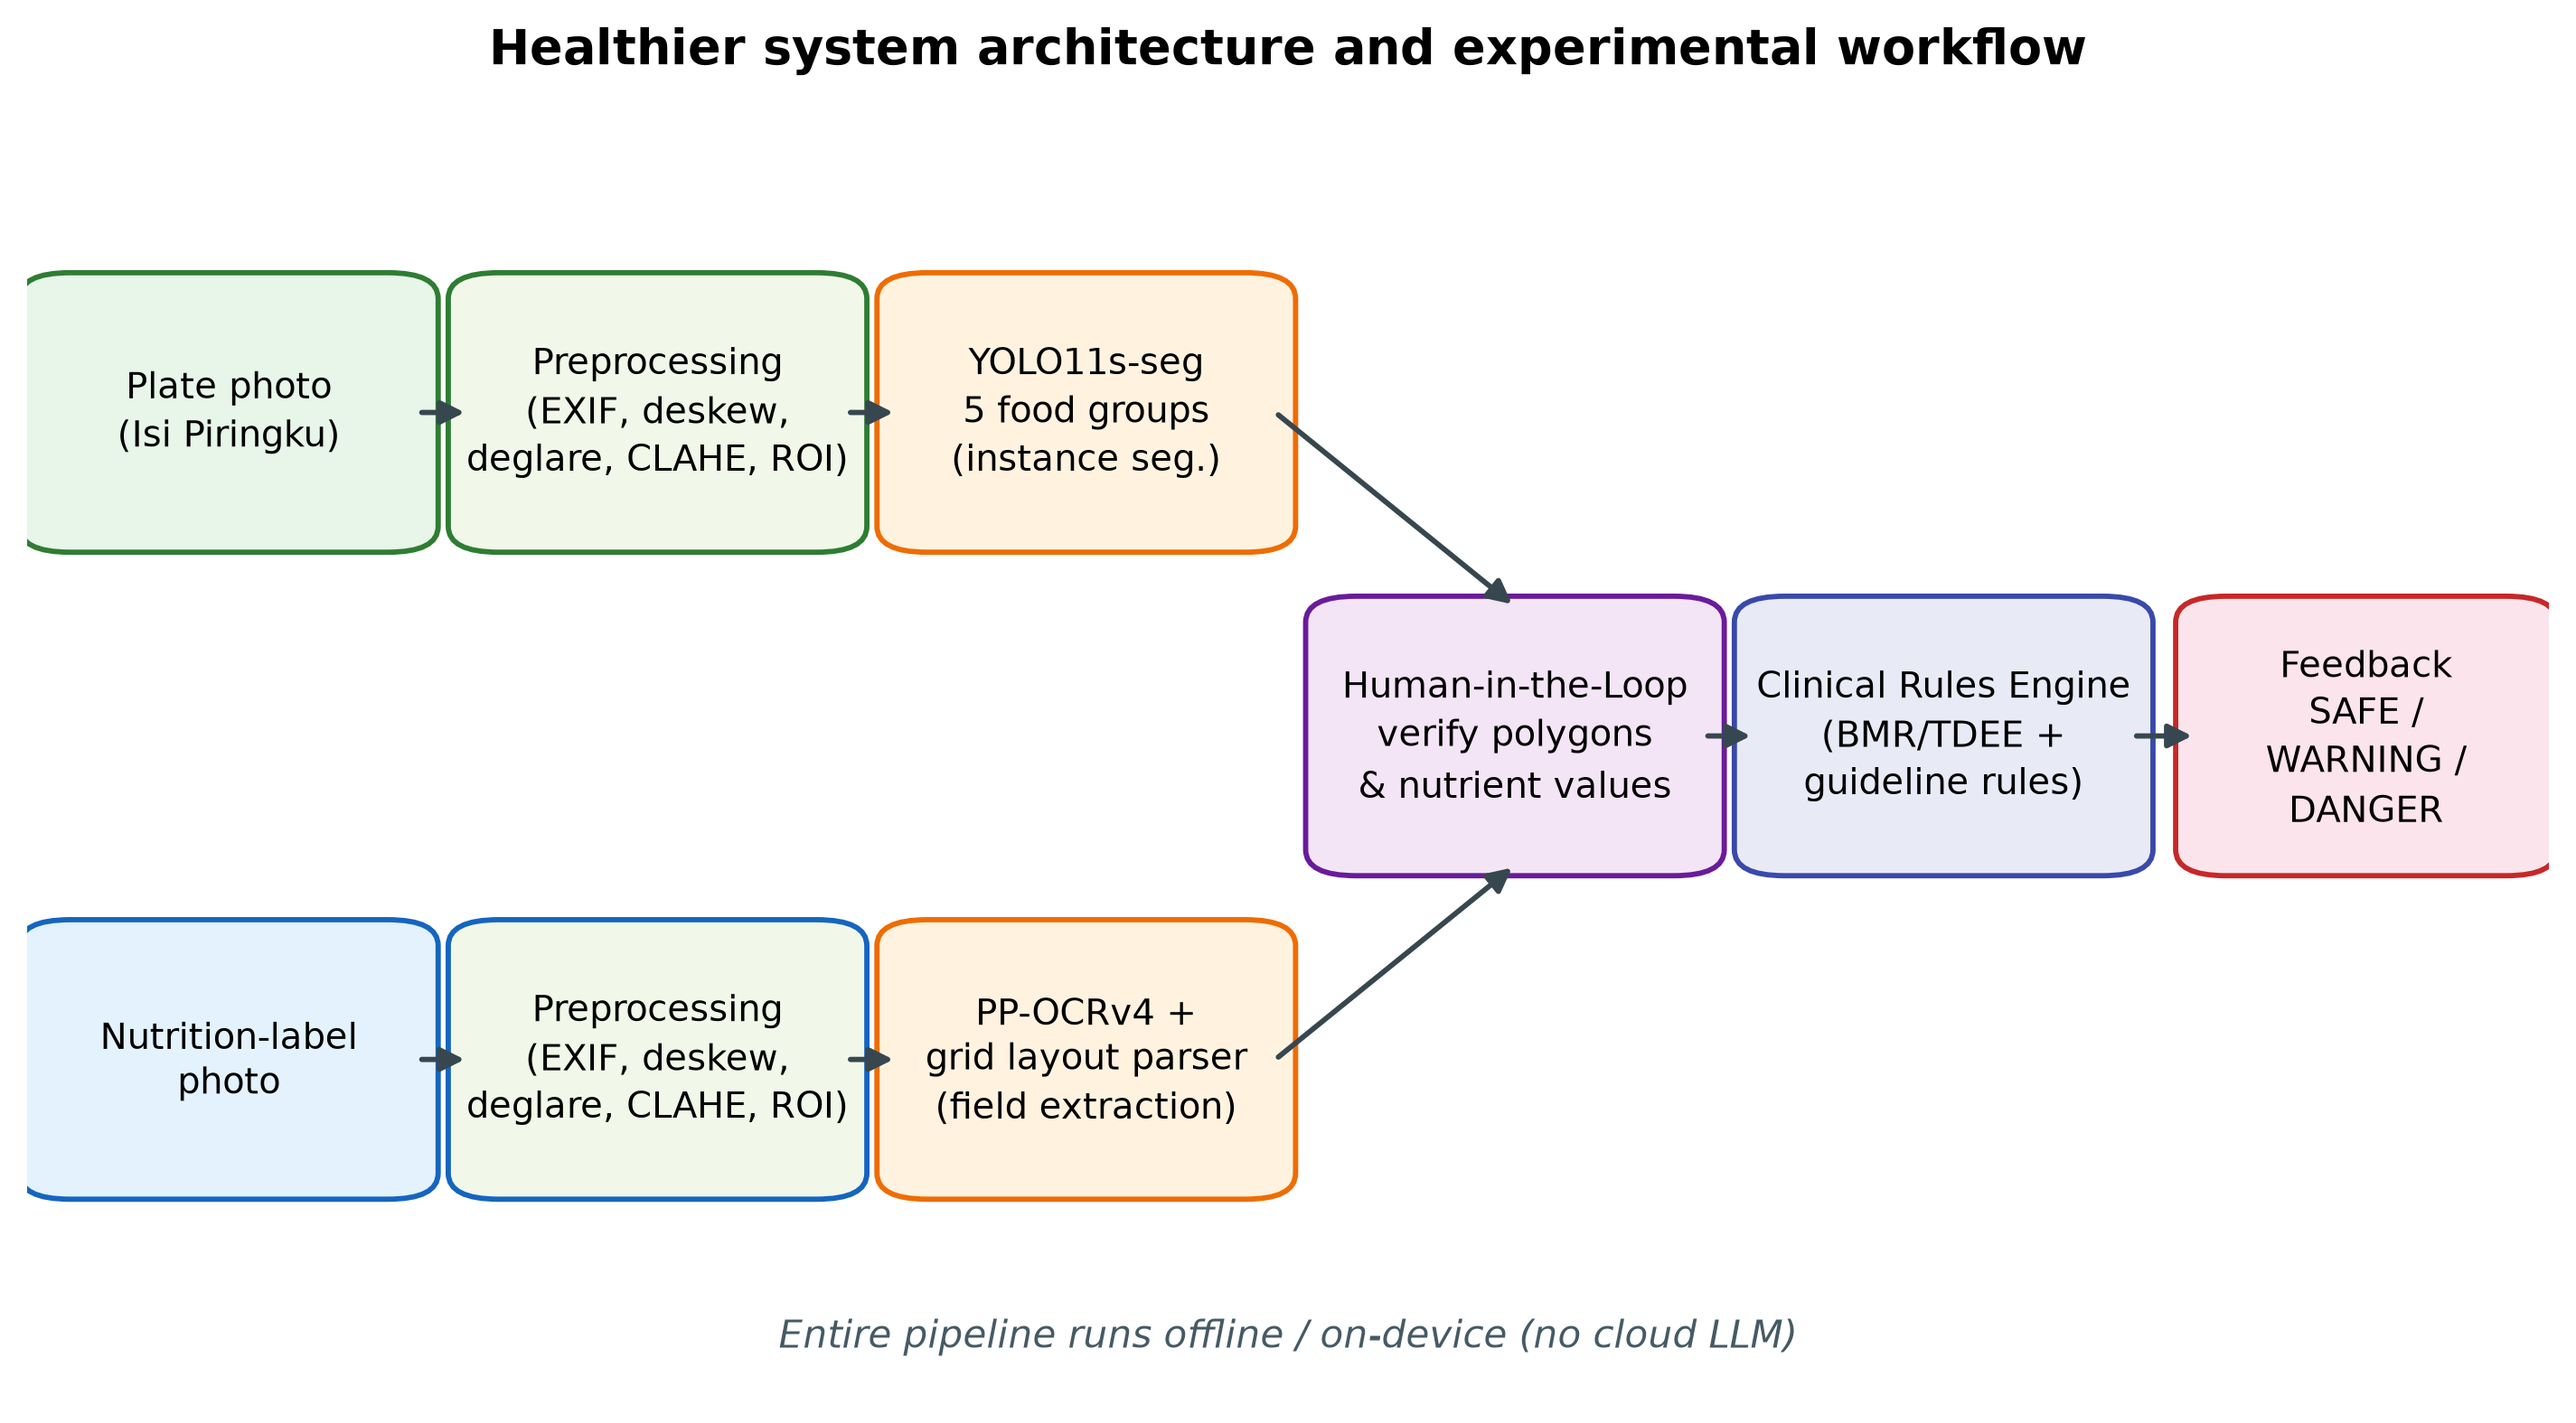
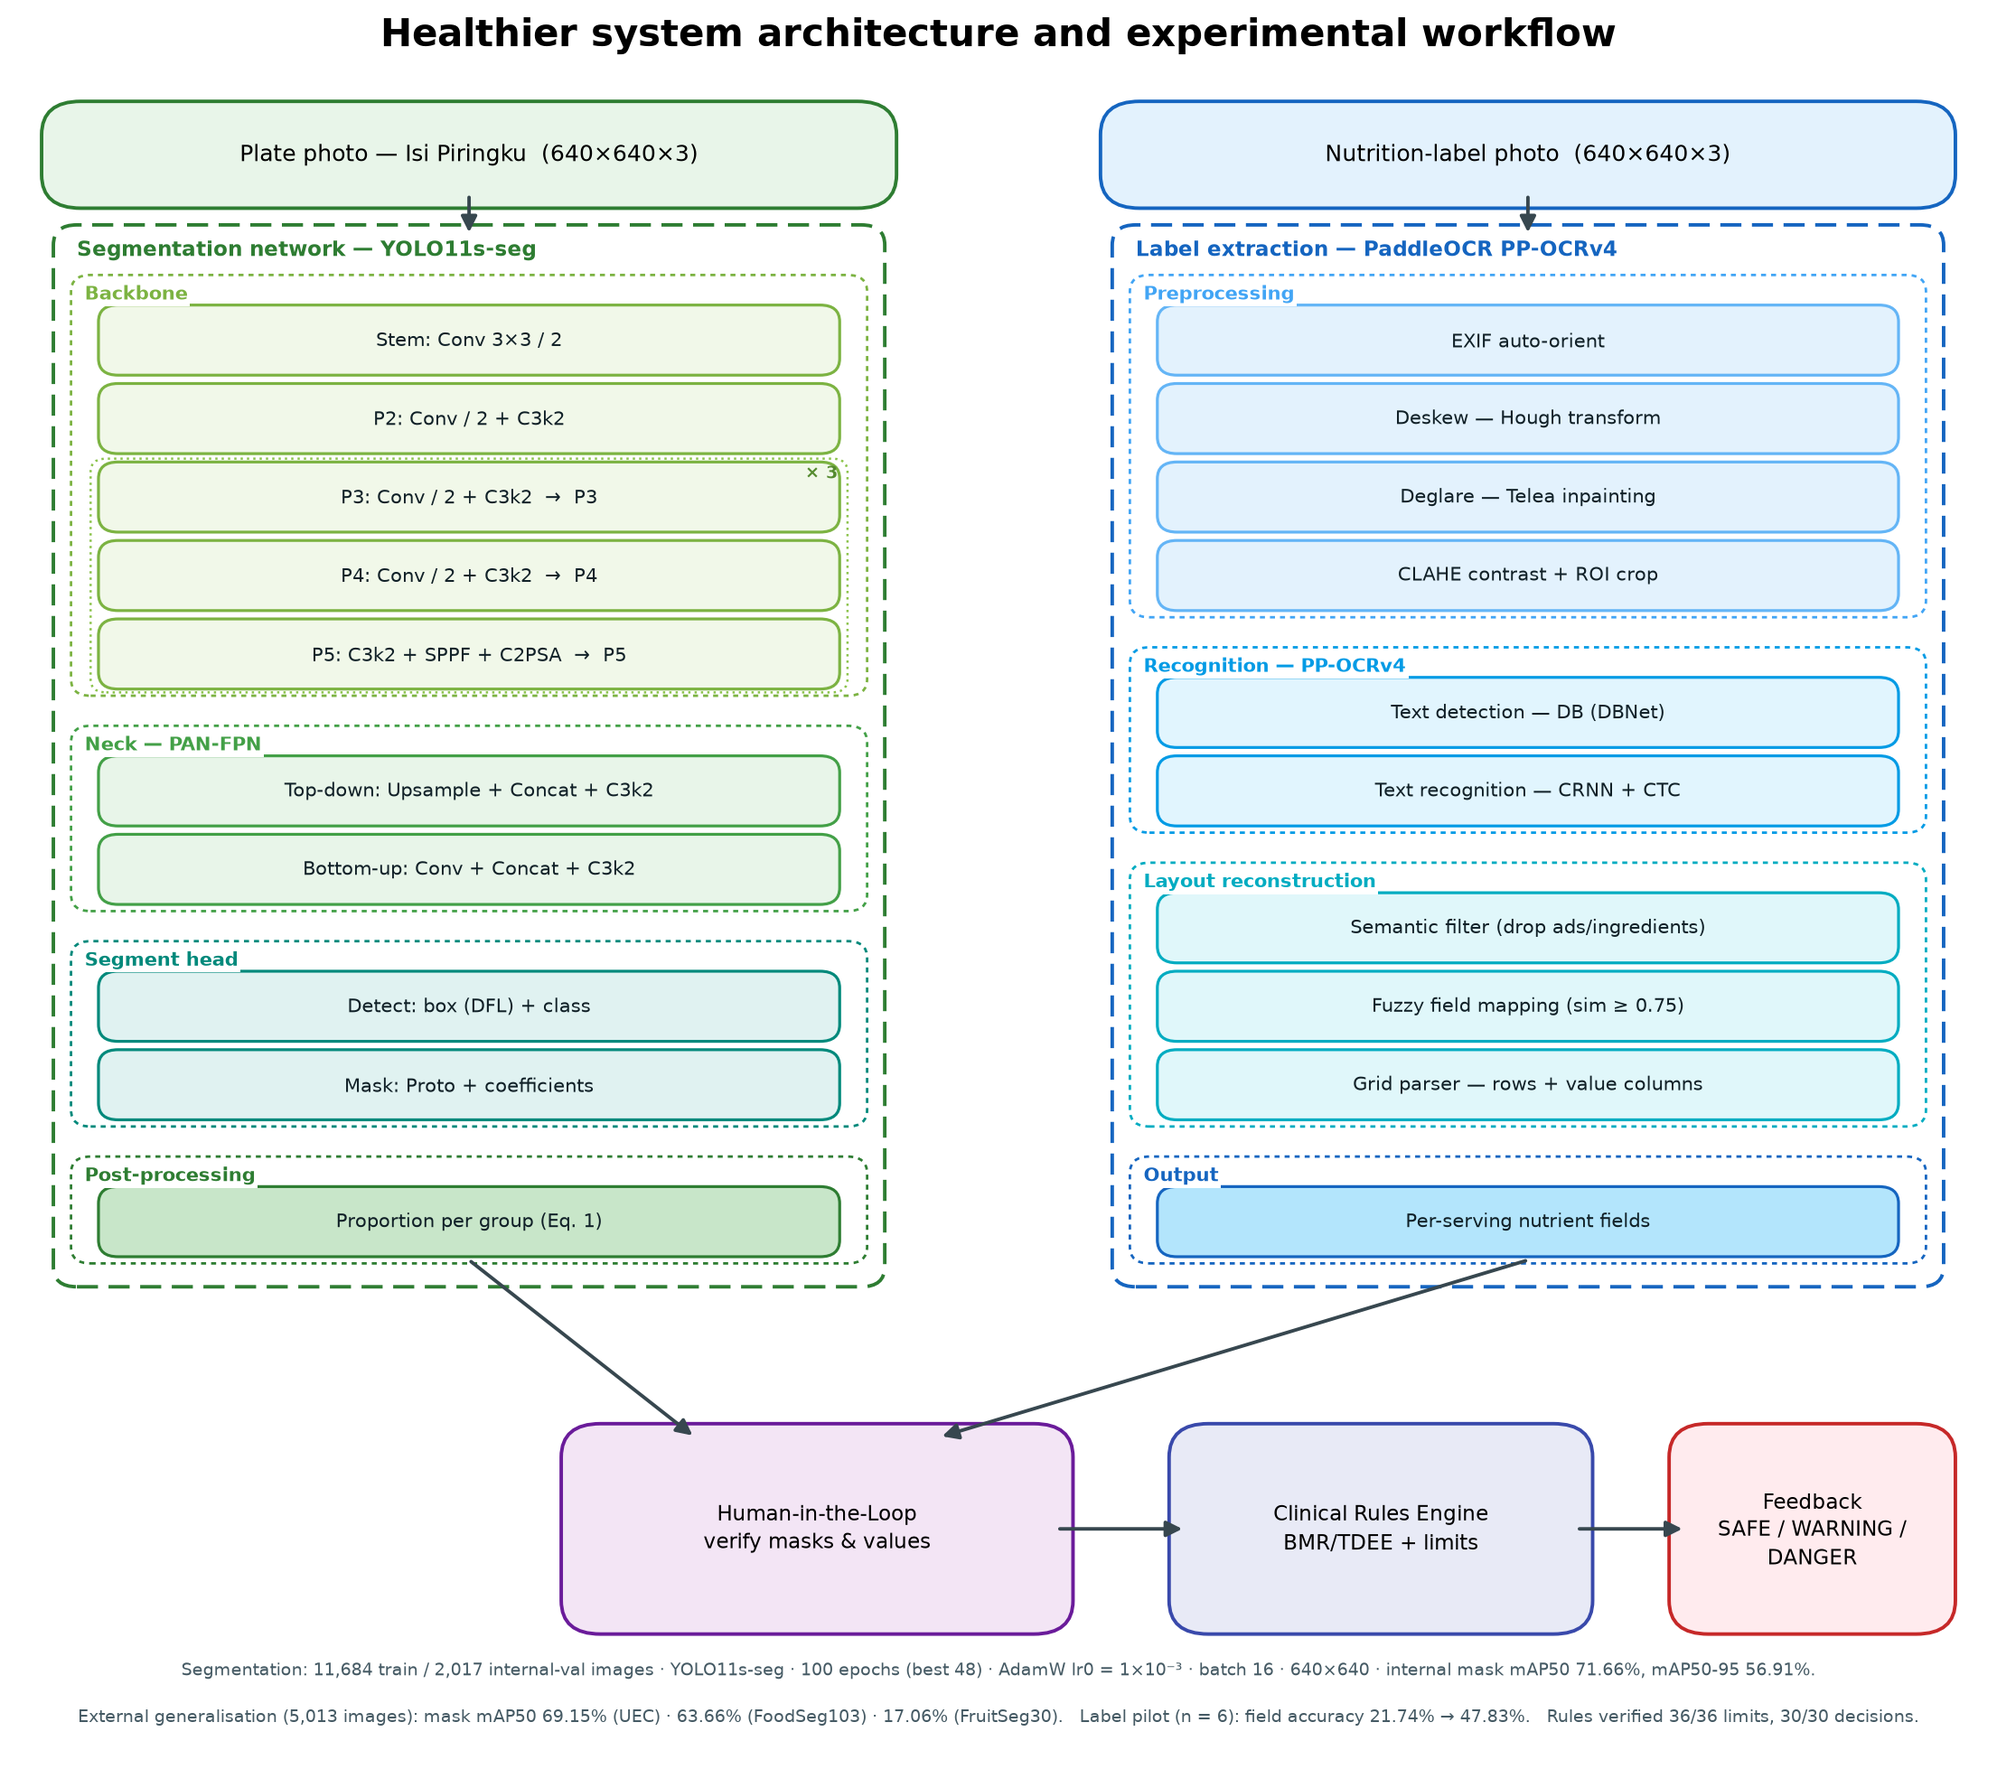
feat(figures): redraw figure 1 as technical architecture block diagram
Replaces the coarse flow sketch with a two-tower technical diagram in the style of the reference Transformer figure: nested dashed groups, stacked component blocks, a repeated 'x 3' backbone-stage marker, and the decision layer. Left tower shows the real YOLO11s-seg backbone (Conv + C3k2 x N, SPPF, C2PSA), PAN-FPN neck, and segment head; right tower shows the PP-OCRv4 preprocessing, DB detection, CRNN+CTC recognition, and grid layout reconstruction; both converge on HITL -> Clinical Rules Engine -> SAFE/WARNING/DANGER. Experiment annotations carry the verified numbers only.

diff --git a/experiments/scripts/make_paper_figures.py b/experiments/scripts/make_paper_figures.py
@@ -2,7 +2,8 @@
 
 Figures are written to ``figures/figure N.png`` at 300 DPI:
 
-* Figure 1  - architecture & workflow diagram (drawn).
+* Figure 1  - technical architecture & experimental-workflow block diagram
+              (drawn; two-tower layout with nested dashed "× n" groups).
 * Figure 2  - Human-in-the-Loop interface schematic (drawn; replace with real
               screenshots if available).
 * Figure 3  - training/validation loss curves (from ``runs/seg_main/results.csv``).
@@ -80,56 +81,172 @@ def _arrow(ax, p1, p2):
                                  shrinkA=1, shrinkB=1))
 
 
+def _dgroup(ax, x, y, w, h, color, title=None, fs=8.4):
+    """Dashed enclosure, like the repeated-layer groups in a Transformer diagram."""
+    ax.add_patch(
+        FancyBboxPatch((x, y), w, h,
+                       boxstyle="round,pad=0.002,rounding_size=0.012",
+                       linewidth=1.4, edgecolor=color, facecolor="none",
+                       linestyle=(0, (6, 3)), zorder=0)
+    )
+    if title:
+        ax.text(x + 0.010, y + h - 0.007, title, ha="left", va="top",
+                fontsize=fs, color=color, fontweight="bold", zorder=4,
+                bbox=dict(fc="white", ec="none", pad=1.4))
+
+
 # --------------------------------------------------------------------------- #
-# Figure 1 - architecture & workflow
+# Figure 1 - technical architecture & experimental-workflow diagram
 # --------------------------------------------------------------------------- #
 def figure1():
-    fig, ax = plt.subplots(figsize=(12, 6.2))
+    fig, ax = plt.subplots(figsize=(14, 12))
     ax.set_xlim(0, 1)
     ax.set_ylim(0, 1)
     ax.axis("off")
     ax.set_title("Healthier system architecture and experimental workflow",
-                 fontsize=13, fontweight="bold", pad=10)
+                 fontsize=15, fontweight="bold", pad=14)
 
-    x = [0.005, 0.175, 0.345, 0.515, 0.685, 0.86]
-    w = [0.15, 0.15, 0.15, 0.15, 0.15, 0.135]
+    # ---- geometry ---------------------------------------------------------
+    LX, LW = 0.020, 0.420
+    RX, RW = 0.560, 0.420
+    cxL, cxR = LX + LW / 2, RX + RW / 2
+    top_in, in_h = 0.980, 0.048
+    grp_top, grp_bot = 0.912, 0.280
+    bw = LW - 0.048
+    bxL, bxR = LX + 0.024, RX + 0.024
+    BH, BG = 0.036, 0.011
+    cont_top = grp_top - 0.030
 
-    _box(ax, x[0], 0.66, w[0], 0.20, "Plate photo\n(Isi Piringku)", LIGHT, GREEN)
-    _box(ax, x[0], 0.16, w[0], 0.20, "Nutrition-label\nphoto", LIGHTB, BLUE)
+    # ---- inputs -----------------------------------------------------------
+    _box(ax, LX, top_in - in_h, LW, in_h,
+         "Plate photo — Isi Piringku  (640×640×3)", LIGHT, GREEN, fs=9)
+    _box(ax, RX, top_in - in_h, RW, in_h,
+         "Nutrition-label photo  (640×640×3)", LIGHTB, BLUE, fs=9)
+    _arrow(ax, (cxL, top_in - in_h), (cxL, grp_top - 0.004))
+    _arrow(ax, (cxR, top_in - in_h), (cxR, grp_top - 0.004))
 
-    _box(ax, x[1], 0.66, w[1], 0.20,
-         "Preprocessing\n(EXIF, deskew,\ndeglare, CLAHE, ROI)", "#f1f8e9", GREEN)
-    _box(ax, x[1], 0.16, w[1], 0.20,
-         "Preprocessing\n(EXIF, deskew,\ndeglare, CLAHE, ROI)", "#f1f8e9", BLUE)
+    # ---- dashed tower enclosures -----------------------------------------
+    _dgroup(ax, LX, grp_bot, LW, grp_top - grp_bot, GREEN,
+            "Segmentation network — YOLO11s-seg")
+    _dgroup(ax, RX, grp_bot, RW, grp_top - grp_bot, BLUE,
+            "Label extraction — PaddleOCR PP-OCRv4")
 
-    _box(ax, x[2], 0.66, w[2], 0.20,
-         "YOLO11s-seg\n5 food groups\n(instance seg.)", "#fff3e0", ORANGE)
-    _box(ax, x[2], 0.16, w[2], 0.20,
-         "PP-OCRv4 +\ngrid layout parser\n(field extraction)", "#fff3e0", ORANGE)
+    # ---- local drawing helpers -------------------------------------------
+    def put(x, y, text, fc, ec, fs=7.4):
+        ax.add_patch(FancyBboxPatch(
+            (x, y - BH), bw, BH,
+            boxstyle="round,pad=0.003,rounding_size=0.010",
+            linewidth=1.15, edgecolor=ec, facecolor=fc, zorder=2))
+        ax.text(x + bw / 2, y - BH / 2, text, ha="center", va="center",
+                fontsize=fs, color="#102027", zorder=3, linespacing=1.2)
 
-    _box(ax, x[3], 0.41, w[3], 0.20,
-         "Human-in-the-Loop\nverify polygons\n& nutrient values", "#f3e5f5", PURPLE)
+    def section(x, ytop, label, color, blocks, fs=7.4):
+        y = ytop - 0.019
+        for text, fc, ec in blocks:
+            put(x, y, text, fc, ec, fs)
+            y -= BH + BG
+        y += BG
+        ybot = y - 0.005
+        ax.add_patch(FancyBboxPatch(
+            (x - 0.015, ybot), bw + 0.030, ytop - ybot,
+            boxstyle="round,pad=0.002,rounding_size=0.010",
+            linewidth=1.0, edgecolor=color, facecolor="none",
+            linestyle=(0, (2, 2)), zorder=1))
+        ax.text(x - 0.010, ytop - 0.004, label, ha="left", va="top",
+                fontsize=7.6, color=color, fontweight="bold", zorder=4,
+                bbox=dict(fc="white", ec="none", pad=0.9))
+        return ybot
 
-    _box(ax, x[4], 0.41, w[4], 0.20,
-         "Clinical Rules Engine\n(BMR/TDEE +\nguideline rules)",
-         "#e8eaf6", "#3949ab")
+    # ---- left tower: segmentation network --------------------------------
+    y = section(bxL, cont_top, "Backbone", "#7cb342", [
+        ("Stem: Conv 3×3 / 2", "#f1f8e9", "#7cb342"),
+        ("P2: Conv / 2 + C3k2", "#f1f8e9", "#7cb342"),
+        ("P3: Conv / 2 + C3k2  →  P3", "#f1f8e9", "#7cb342"),
+        ("P4: Conv / 2 + C3k2  →  P4", "#f1f8e9", "#7cb342"),
+        ("P5: C3k2 + SPPF + C2PSA  →  P5", "#f1f8e9", "#7cb342"),
+    ])
+    # "× 3" repeated-stage marker across the P3-P5 stages
+    i0, i1 = 2, 4
+    mt = cont_top - 0.019 - i0 * (BH + BG) + 0.004
+    mb = cont_top - 0.019 - i1 * (BH + BG) - BH - 0.004
+    ax.add_patch(FancyBboxPatch(
+        (bxL - 0.006, mb), bw + 0.012, mt - mb,
+        boxstyle="round,pad=0.001,rounding_size=0.008",
+        linewidth=0.9, edgecolor="#8bc34a", facecolor="none",
+        linestyle=(0, (1, 1.8)), zorder=1.5))
+    ax.text(bxL + bw + 0.002, mt - 0.003, "× 3", ha="right", va="top",
+            fontsize=6.8, color="#558b2f", fontweight="bold", zorder=4)
 
-    _box(ax, x[5], 0.41, w[5], 0.20,
-         "Feedback\nSAFE /\nWARNING /\nDANGER", "#fce4ec", "#c62828")
+    y -= 0.022
+    y = section(bxL, y, "Neck — PAN-FPN", "#43a047", [
+        ("Top-down: Upsample + Concat + C3k2", "#e8f5e9", "#43a047"),
+        ("Bottom-up: Conv + Concat + C3k2", "#e8f5e9", "#43a047"),
+    ])
+    y -= 0.022
+    y = section(bxL, y, "Segment head", "#00897b", [
+        ("Detect: box (DFL) + class", "#e0f2f1", "#00897b"),
+        ("Mask: Proto + coefficients", "#e0f2f1", "#00897b"),
+    ])
+    y -= 0.022
+    left_bot = section(bxL, y, "Post-processing", "#2e7d32", [
+        ("Proportion per group (Eq. 1)", "#c8e6c9", "#2e7d32"),
+    ])
 
-    _arrow(ax, (x[0] + w[0], 0.76), (x[1], 0.76))
-    _arrow(ax, (x[1] + w[1], 0.76), (x[2], 0.76))
-    _arrow(ax, (x[0] + w[0], 0.26), (x[1], 0.26))
-    _arrow(ax, (x[1] + w[1], 0.26), (x[2], 0.26))
-    _arrow(ax, (x[2] + w[2], 0.76), (x[3] + w[3] / 2, 0.61))
-    _arrow(ax, (x[2] + w[2], 0.26), (x[3] + w[3] / 2, 0.41))
-    _arrow(ax, (x[3] + w[3], 0.51), (x[4], 0.51))
-    _arrow(ax, (x[4] + w[4], 0.51), (x[5], 0.51))
+    # ---- right tower: label extraction -----------------------------------
+    y = section(bxR, cont_top, "Preprocessing", "#42a5f5", [
+        ("EXIF auto-orient", "#e3f2fd", "#64b5f6"),
+        ("Deskew — Hough transform", "#e3f2fd", "#64b5f6"),
+        ("Deglare — Telea inpainting", "#e3f2fd", "#64b5f6"),
+        ("CLAHE contrast + ROI crop", "#e3f2fd", "#64b5f6"),
+    ])
+    y -= 0.022
+    y = section(bxR, y, "Recognition — PP-OCRv4", "#039be5", [
+        ("Text detection — DB (DBNet)", "#e1f5fe", "#039be5"),
+        ("Text recognition — CRNN + CTC", "#e1f5fe", "#039be5"),
+    ])
+    y -= 0.022
+    y = section(bxR, y, "Layout reconstruction", "#00acc1", [
+        ("Semantic filter (drop ads/ingredients)", "#e0f7fa", "#00acc1"),
+        ("Fuzzy field mapping (sim ≥ 0.75)", "#e0f7fa", "#00acc1"),
+        ("Grid parser — rows + value columns", "#e0f7fa", "#00acc1"),
+    ])
+    y -= 0.022
+    right_bot = section(bxR, y, "Output", "#1565c0", [
+        ("Per-serving nutrient fields", "#b3e5fc", "#1565c0"),
+    ])
 
-    ax.text(0.5, 0.045,
-            "Entire pipeline runs offline / on-device (no cloud LLM)",
-            ha="center", va="center", fontsize=10, style="italic", color=GREY)
-    save(fig, 1)
+    # ---- decision layer ---------------------------------------------------
+    band_y, band_h = 0.078, 0.110
+    band_top = band_y + band_h
+    hx, hw = 0.285, 0.245
+    rx, rw = 0.595, 0.200
+    fx, fw = 0.850, 0.130
+    _box(ax, hx, band_y, hw, band_h,
+         "Human-in-the-Loop\nverify masks & values", "#f3e5f5", PURPLE, fs=8.2)
+    _box(ax, rx, band_y, rw, band_h,
+         "Clinical Rules Engine\nBMR/TDEE + limits", "#e8eaf6", "#3949ab", fs=8.2)
+    _box(ax, fx, band_y, fw, band_h,
+         "Feedback\nSAFE / WARNING /\nDANGER", "#ffebee", "#c62828", fs=8.2)
+
+    _arrow(ax, (cxL, left_bot), (hx + 0.060, band_top))
+    _arrow(ax, (cxR, right_bot), (hx + 0.185, band_top))
+    mid = band_y + band_h / 2
+    _arrow(ax, (hx + hw, mid), (rx, mid))
+    _arrow(ax, (rx + rw, mid), (fx, mid))
+
+    # ---- experiment annotations ------------------------------------------
+    ax.text(0.5, 0.048,
+            "Segmentation: 11,684 train / 2,017 internal-val images · YOLO11s-seg · "
+            "100 epochs (best 48) · AdamW lr0 = 1×10⁻³ · batch 16 · 640×640 · "
+            "internal mask mAP50 71.66%, mAP50-95 56.91%.",
+            ha="center", va="center", fontsize=6.9, color=GREY)
+    ax.text(0.5, 0.020,
+            "External generalisation (5,013 images): mask mAP50 69.15% (UEC) · "
+            "63.66% (FoodSeg103) · 17.06% (FruitSeg30).   "
+            "Label pilot (n = 6): field accuracy 21.74% → 47.83%.   "
+            "Rules verified 36/36 limits, 30/30 decisions.",
+            ha="center", va="center", fontsize=6.9, color=GREY)
+    save(fig, 1, dpi=200)
 
 
 # --------------------------------------------------------------------------- #

diff --git a/figures/README.md b/figures/README.md
@@ -7,7 +7,7 @@ Gambar untuk naskah `experiments/paper/manuscript_jri.md` (`manuscript_jri.docx`
 
 | File | Caption (sesuai naskah) | Asal / status |
 | :--- | :--- | :--- |
-| `figure 1.png` | Healthier system architecture and experimental workflow. | Diagram (digambar) |
+| `figure 1.png` | Healthier system architecture and experimental workflow. | Diagram teknis (digambar): dua menara bergaya Transformer — backbone/neck/head YOLO11s-seg dengan grup berulang `× 3`, pipeline PP-OCRv4, dan lapisan keputusan HITL → Clinical Rules Engine → SAFE/WARNING/DANGER, plus anotasi hasil eksperimen |
 | `figure 2.png` | Human-in-the-Loop interfaces: segmentation editor and nutrient value verification form. | **Skema (digambar)** — ganti dengan screenshot asli bila ada |
 | `figure 3.png` | Training and validation loss curves for the YOLO11s-seg model. | Dari `runs/seg_main/results.csv` |
 | `figure 4.png` | Normalised confusion matrix on the internal validation split. | Salinan `runs/seg_main/confusion_matrix_normalized.png` |
